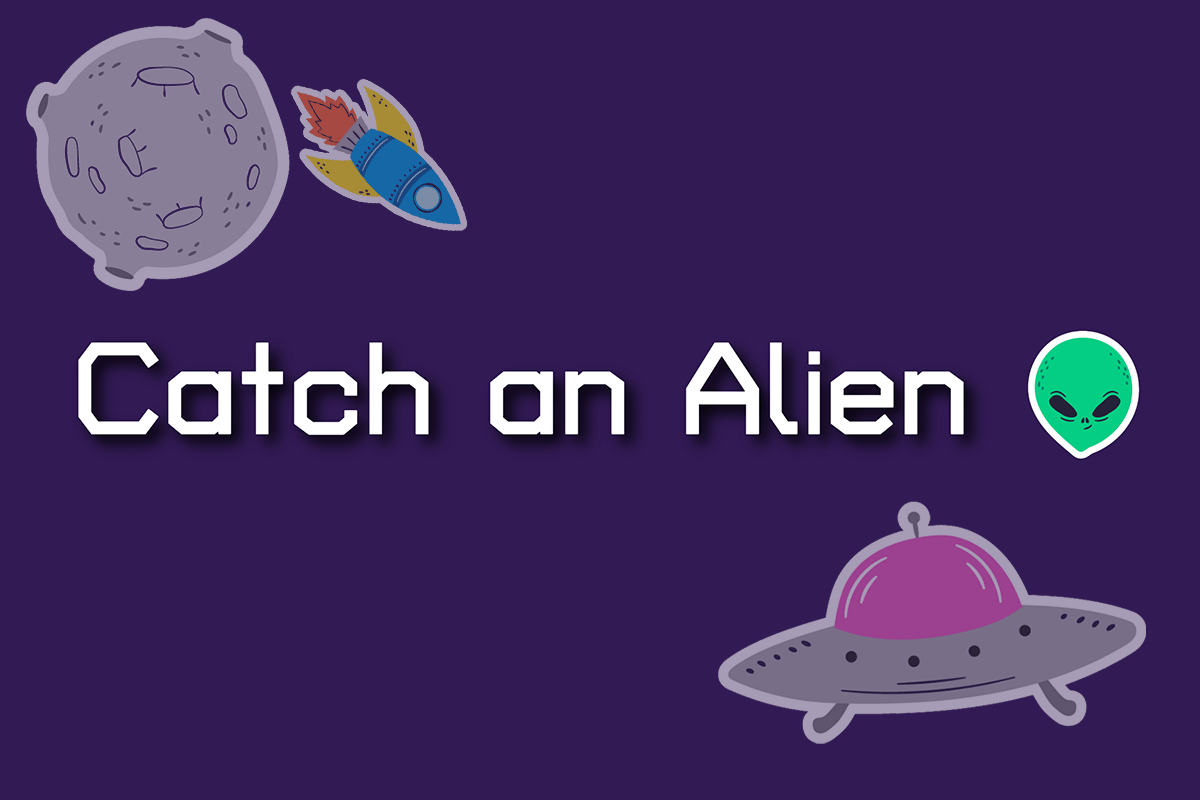
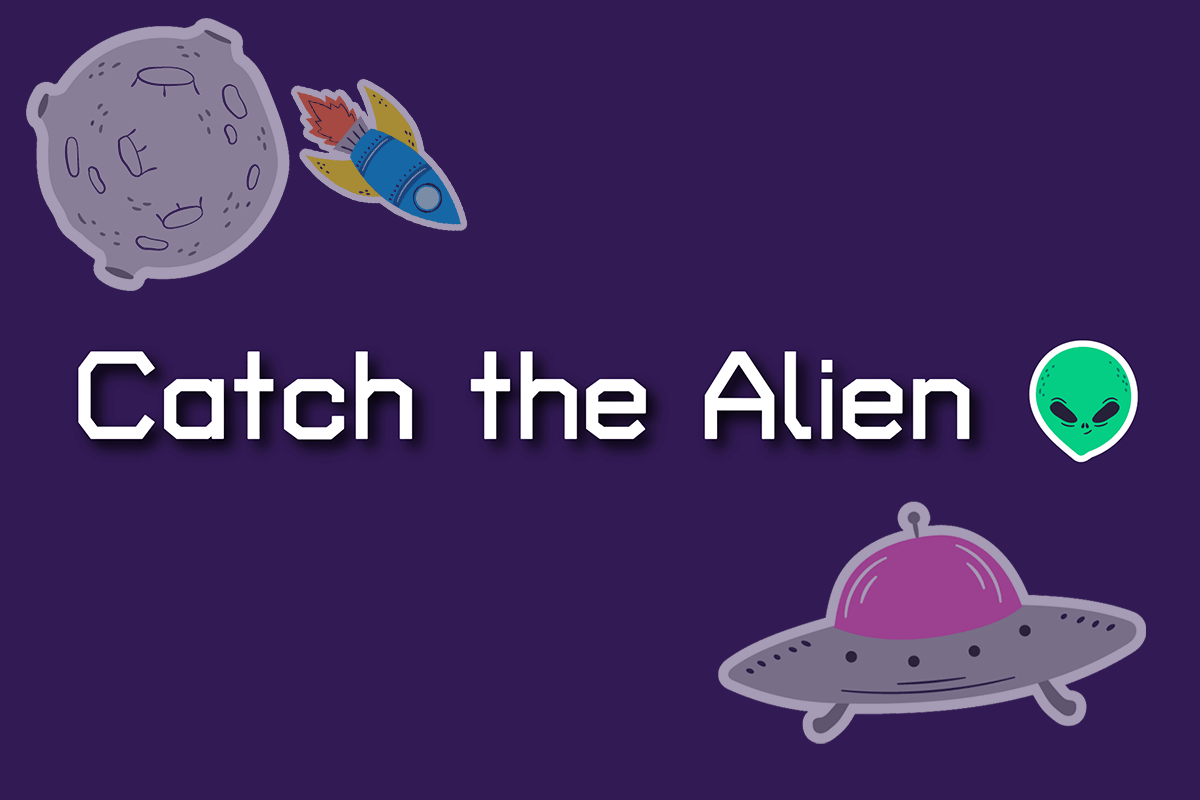
fix title

Changed region(s): [[0.0617, 0.4062, 0.9558, 0.5938]]

diff --git a/public/index.html b/public/index.html
@@ -24,7 +24,7 @@
       work correctly both with client-side routing and a non-root public URL.
       Learn how to configure a non-root public URL by running `npm run build`.
     -->
-    <title>ROCKET GAME - Catch an Alien</title>
+    <title>ROCKET GAME - Catch the Alien</title>
     <meta name="description" content="Mini game, in which you have to catch the alien and save our planet." />
     <meta property="og:description" content="Mini game, in which you have to catch the alien and save our planet." />
     <meta property="og:image" content="%PUBLIC_URL%/cover.png" />

diff --git a/src/containers/Menu/index.js b/src/containers/Menu/index.js
@@ -22,7 +22,7 @@ const Menu = ({appData}) => {
         <div className={style.wrapper}>
             <div className={style.bg} />
             <span className={style.title}>
-                Catch an Alien
+                Catch the Alien
                 <img src={require("../../images/alien.png")} className={style.alien} alt="Alien" />
             </span>
             <SpaceShipSelector />

diff --git a/README.md b/README.md
@@ -1,4 +1,4 @@
-# Catch an Alien - mini game
+# Catch the Alien - mini game
 
 **DEMO**: [https://massoprod.github.io/react-mini-rocket-game/](https://massoprod.github.io/react-mini-rocket-game/)
 
